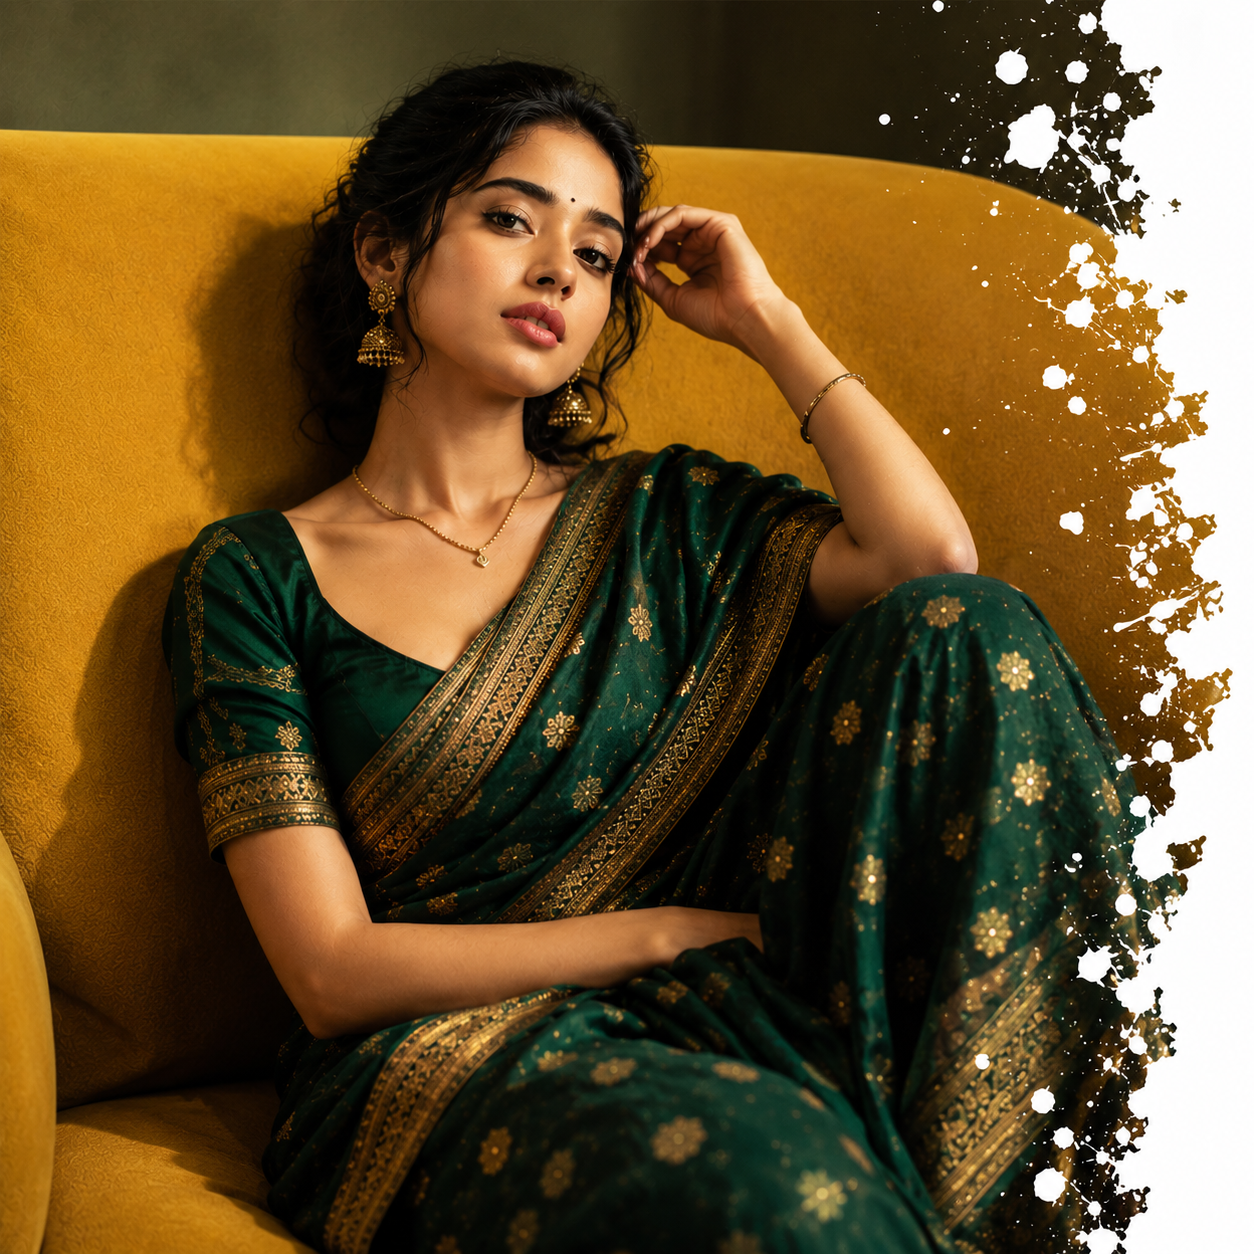
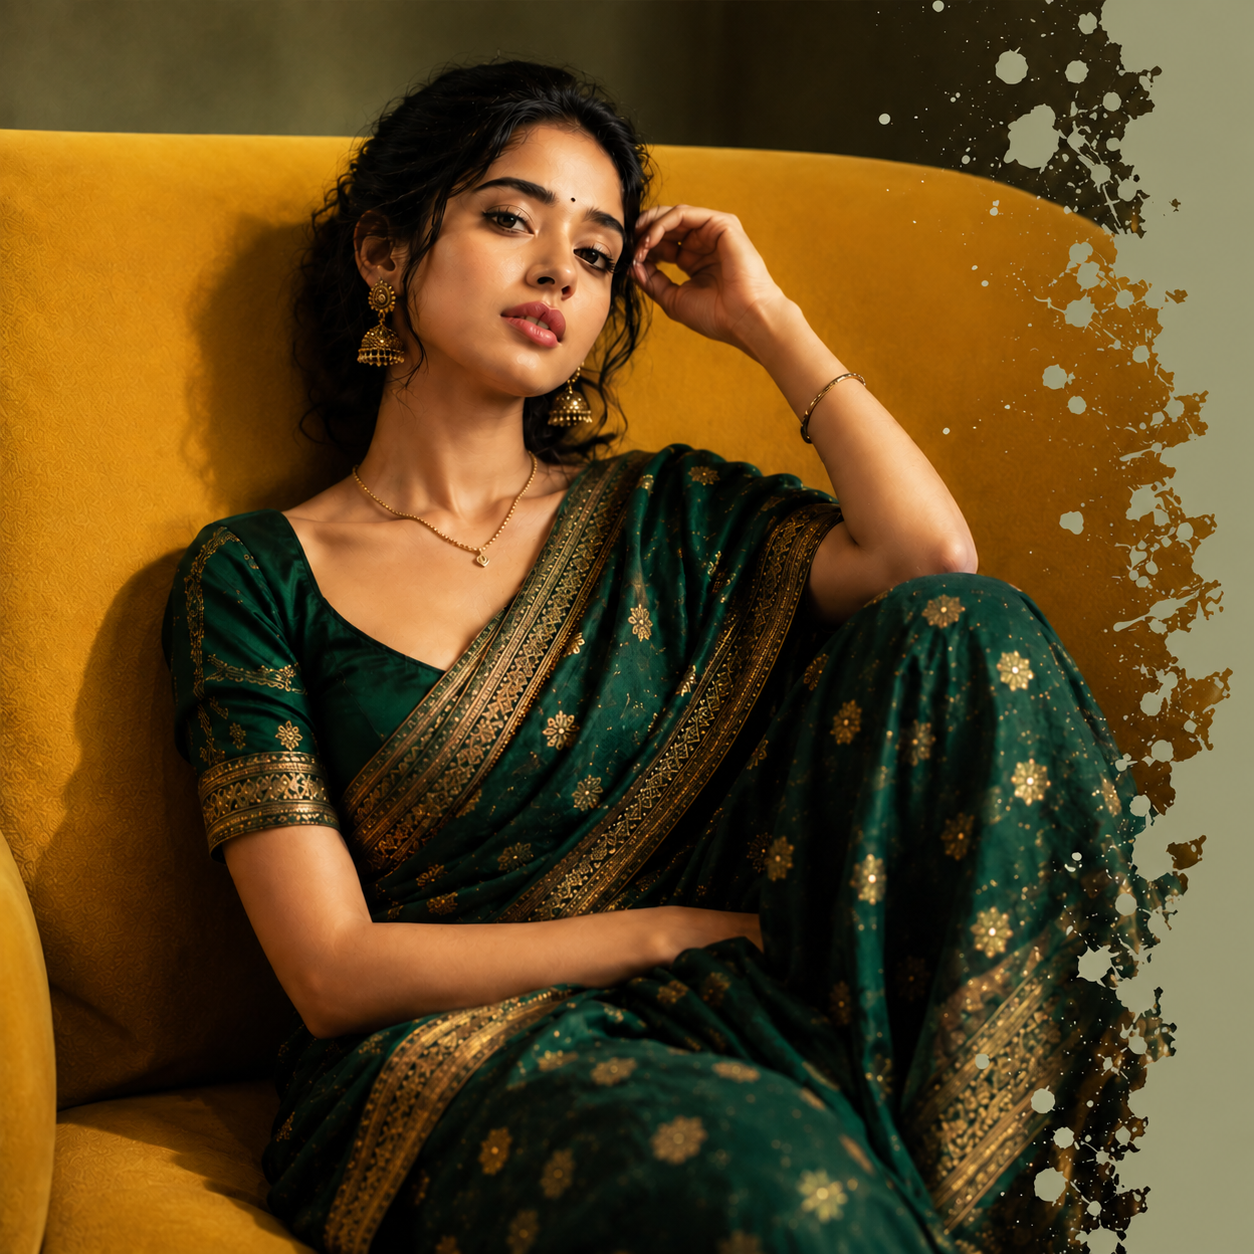
Improve Yucii homepage header and navigation styling

diff --git a/Yucii_ecommerce/assets/css/style-prefix.css b/Yucii_ecommerce/assets/css/style-prefix.css
@@ -333,7 +333,8 @@ body::-webkit-scrollbar-thumb:hover { background: hsl(0, 0%, 70%); }
 .modal-close-btn ion-icon { --ionicon-stroke-width: 70px; }
 
 .newsletter {
-  padding: 50px 30px;
+   background-color: #9A9A7B;
+  padding: 70px 40px;
   text-align: center;
 }
 
@@ -353,16 +354,17 @@ body::-webkit-scrollbar-thumb:hover { background: hsl(0, 0%, 70%); }
 }
 
 .email-field {
+  border: 1px solid #000;
+  outline: none;
   font-size: var(--fs-7);
   padding: 8px 16px;
   -webkit-border-radius: var(--border-radius-sm);
-          border-radius: var(--border-radius-sm);
-  border: 1px solid var(--cultured);
+  border-radius: var(--border-radius-sm);
   margin-bottom: 16px;
 }
 
 .btn-newsletter {
-  background: var(--eerie-black);
+  background: #0f5c4d;
   color: var(--white);
   font-size: var(--fs-7);
   font-weight: var(--weight-600);
@@ -489,6 +491,7 @@ body::-webkit-scrollbar-thumb:hover { background: hsl(0, 0%, 70%); }
 }
 
 .toast-detail {
+  background 
   width: -webkit-calc(100% - 85px);
   width: calc(100% - 85px);
   padding-right: 10px;
@@ -2212,7 +2215,15 @@ footer {
   font-weight: var(--weight-500);
 }
 
-.header-main { padding: 25px 0; }
+.header-main { 
+   padding: 25px 0;
+  background: transparent;
+  position: absolute;
+  top: 15;
+  left: 0;
+  width: 100%;
+  z-index: 1000;
+}
 
 .mobile-bottom-navigation {
 
@@ -2662,7 +2673,13 @@ footer {
    * #NOTIFICATION TOAST 
    */
 
-  .notification-toast { bottom: 30px; }
+  .notification-toast {
+    background-color: #9A9A7B;
+      bottom: 30px; 
+
+  }
+
+  
 
 
 

diff --git a/Yucii_ecommerce/index.html b/Yucii_ecommerce/index.html
@@ -13,7 +13,7 @@
   <link rel="shortcut icon" href="./assets/images/logo/facicon11.png" type="image/x-icon">
 
   <!--
-    - custom css link
+    - custom css 
   -->
   <link rel="stylesheet" href="./assets/css/style-prefix.css">
 
